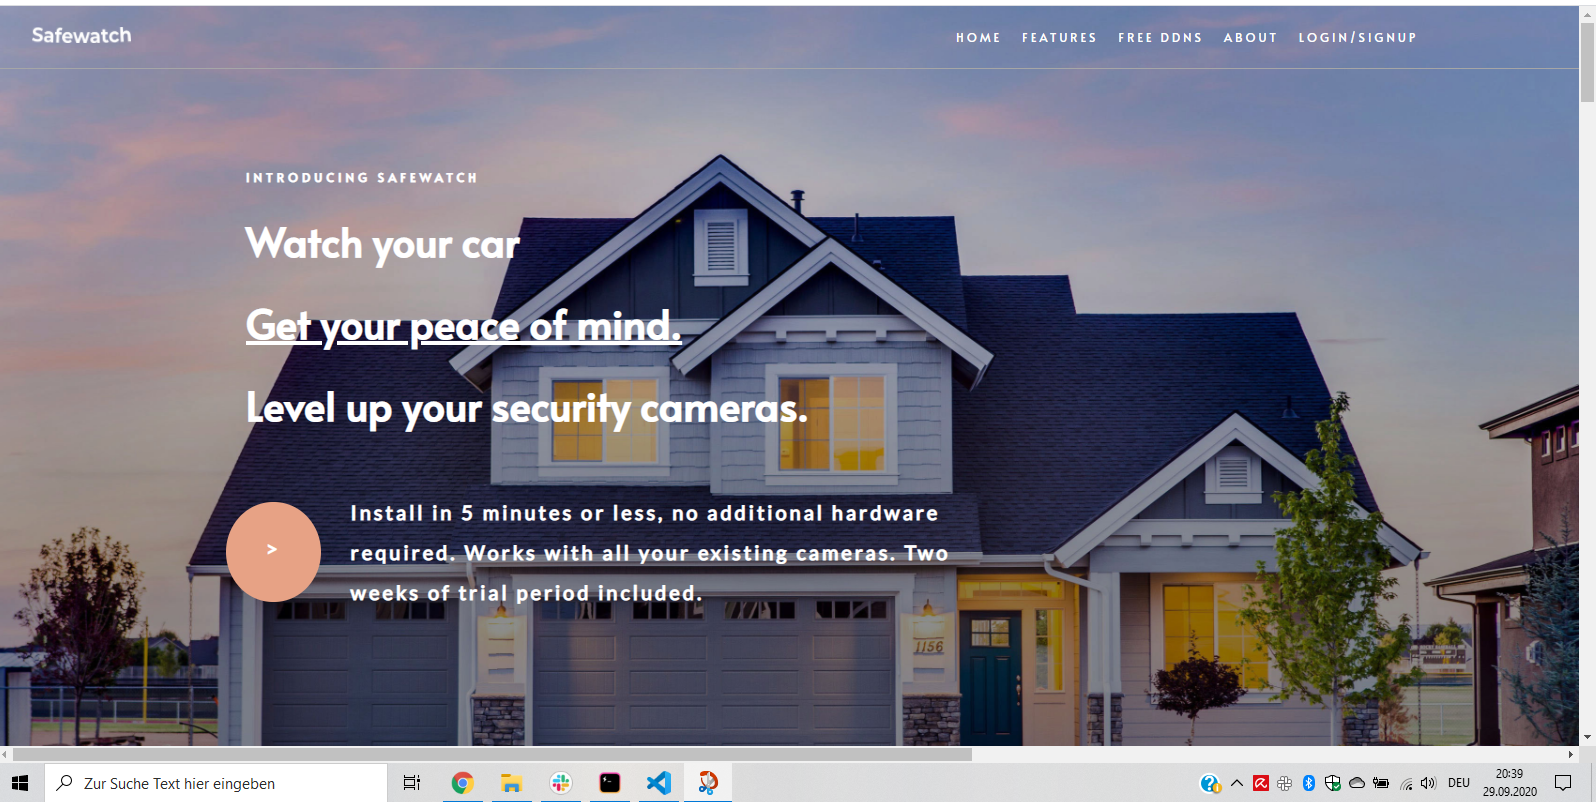
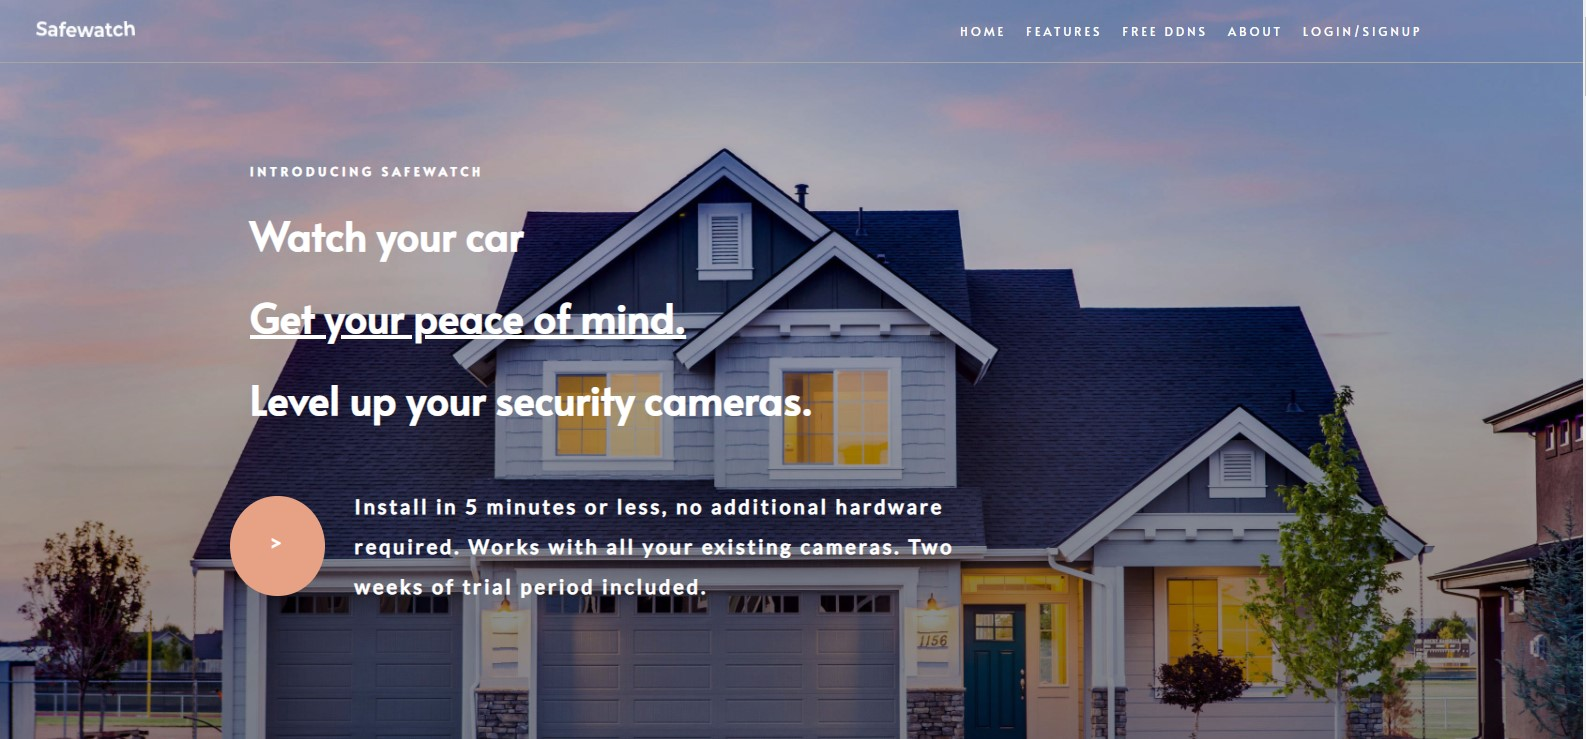
Edit CSS.

diff --git a/src/App.js b/src/App.js
@@ -1,7 +1,5 @@
 /** @jsx jsx */
 import { css, jsx } from '@emotion/core';
-//eslint-disable-next-line no-unused-vars
-import React from 'react';
 
 // images
 import logo from './images/white_compact_word_logo.png';
@@ -18,8 +16,6 @@ import product_hunt from './images/product_hunt.png';
 
 // background images
 import house from './images/house.jpeg';
-//eslint-disable-next-line no-unused-vars
-import sky from './images/sky.jpg';
 
 // CSS-in-JS
 
@@ -57,10 +53,6 @@ const navBarStyles = css`
   padding: 1px;
   border-color: #a6a6a6;
   border-width: 0px 0px 0.2px 0px;
-   
-}
-
-  }
 
   ul {
     display: flex;
@@ -71,11 +63,10 @@ const navBarStyles = css`
     font-size: 12px;
 
     /* makes urls in navbar a column when screen size decreases */
-    
+
     @media screen and (max-width: 697px) {
       flex-direction: column;
     }
-  }
 
     li {
       padding: 10px;
@@ -86,7 +77,7 @@ const navBarStyles = css`
   a {
     text-decoration: none;
     color: #ffffff;
-   }
+  }
 
   img {
     height: 16px;
@@ -107,15 +98,14 @@ const lato = css`
   font-family: 'Lato', sans-serif;
   margin-top: 60px;
   width: 750px;
-  }
 
   a {
-  background-color: #e7a285;
-  border-radius: 100%;
-  color: white;
-  padding: 1.3em 2em;
-  text-decoration: none;
-  margin: 10px 30px 10px -20px;
+    background-color: #e7a285;
+    border-radius: 100%;
+    color: white;
+    padding: 1.3em 2em;
+    text-decoration: none;
+    margin: 10px 30px 10px -20px;
   }
 `;
 
@@ -124,10 +114,7 @@ const detectors = css`
   width: 1200px;
   margin-top: 100px;
   margin-left: 250px;
-  
-  
-  }
-  
+
   h6 {
     padding-top: 20px;
     font-size: 11px;
@@ -160,7 +147,6 @@ const detectors = css`
     font-size: 10px;
     letter-spacing: 3px;
     font-weight: bold;
-
   }
 `;
 
@@ -171,7 +157,7 @@ const danger = css`
   margin-top: 10px;
   border-style: solid;
   border-color: red;
-  border-with: 10px;
+  border-width: 10px;
   padding: 5px;
 `;
 
